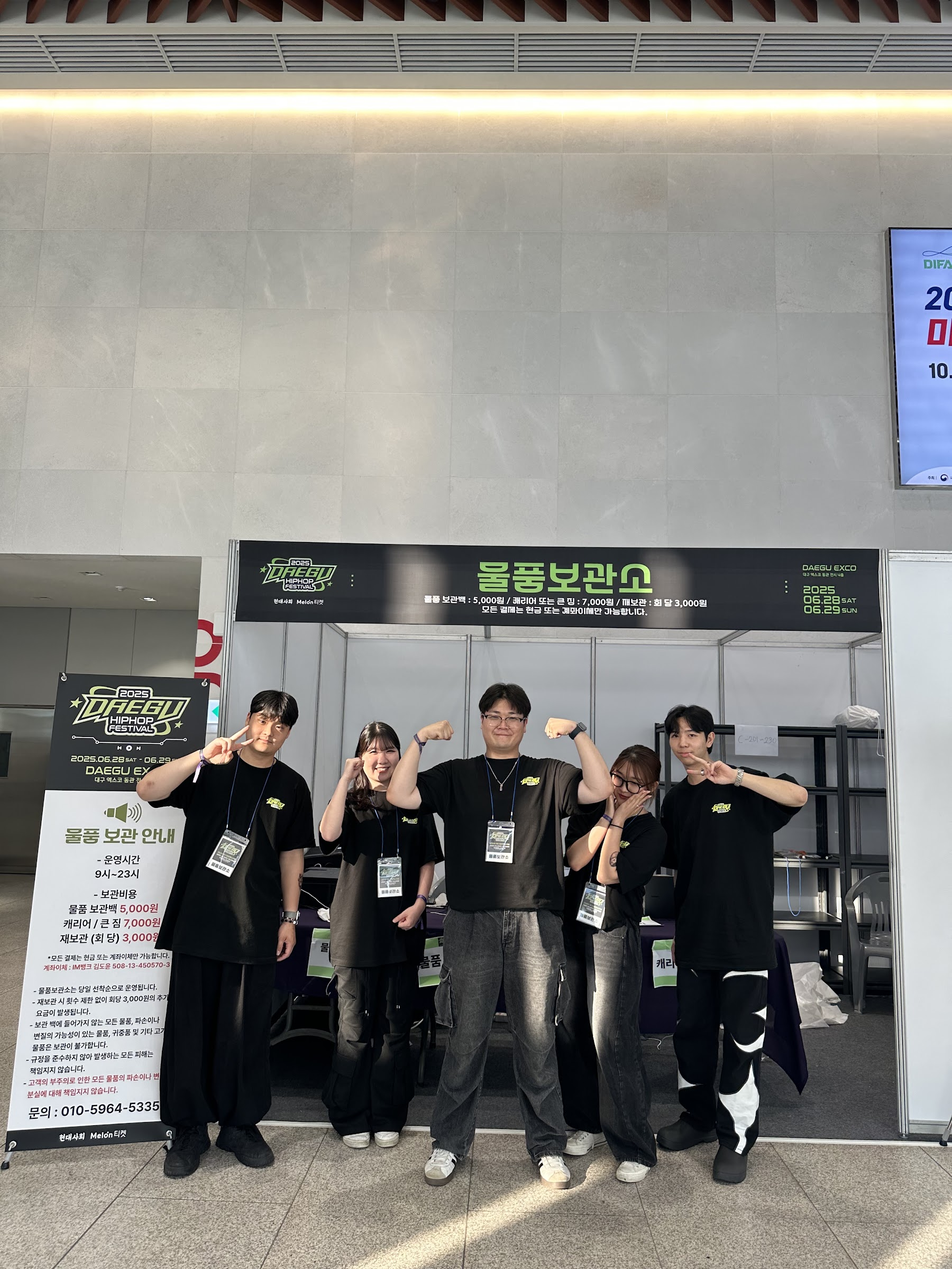
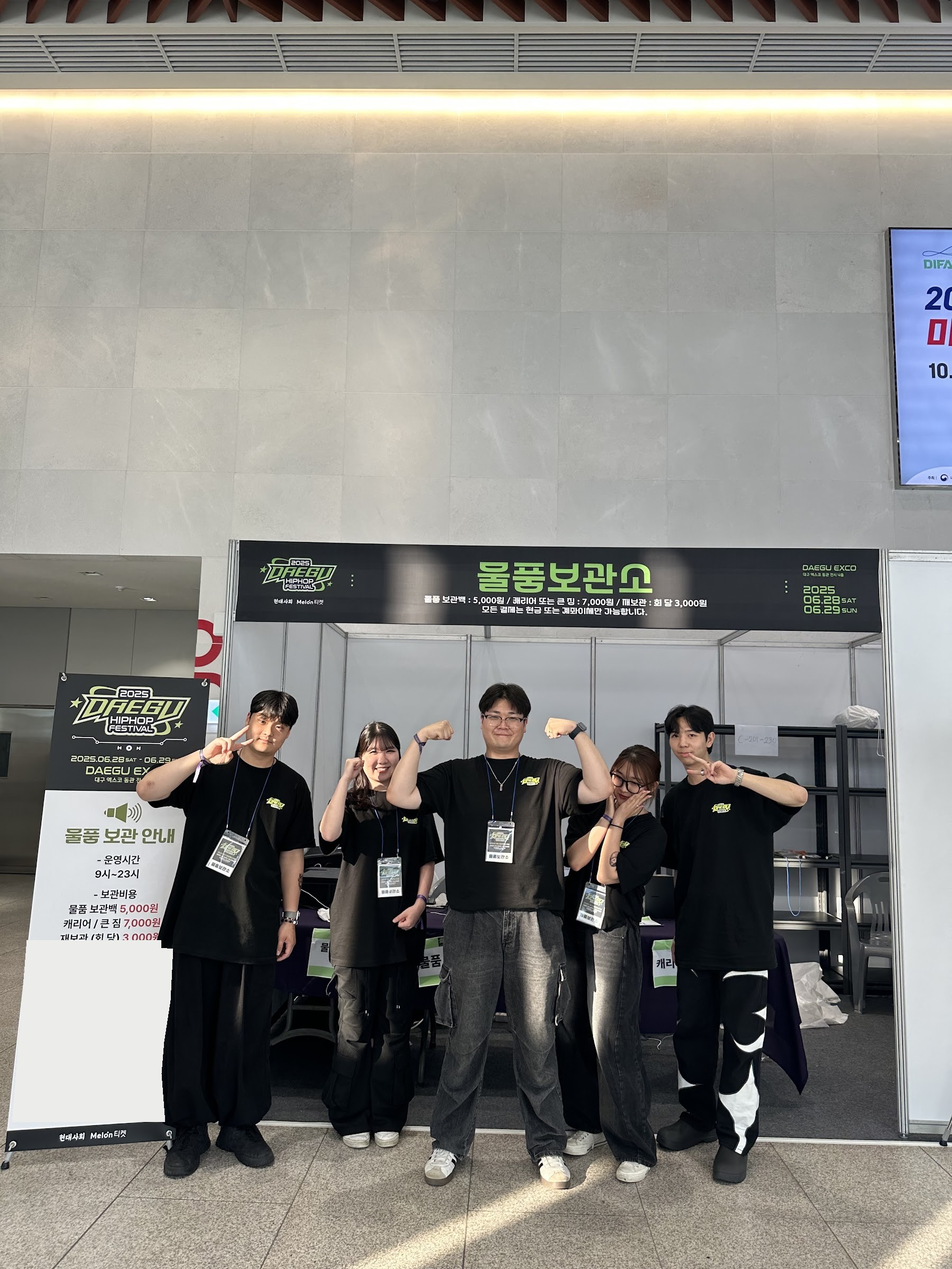
메인 사진을 활동 사진 슬라이드로 변경, 안내판 개인정보 가림
- 메인 큰 사진 자리에 활동 사진 6장이 5초마다 바뀌는 슬라이드 추가
- 점 버튼으로 사진 선택, 멈춤 버튼, 마우스를 올리면 잠시 멈춤
- 움직임 줄이기 설정을 켠 방문자에게는 자동으로 넘기지 않음
- 힙합페스티벌 사진 안내판의 개인 계좌번호와 예전 전화번호를 가림
- 봉사활동 사진 설명을 현수막 내용에 맞게 수정

Changed region(s): [[0.0311, 0.7188, 0.1867, 0.9062]]

diff --git a/index.html b/index.html
@@ -54,7 +54,19 @@
   </div>
 </div>
 
-<figure class="hero-photo"><img src="assets/photos/award.jpg" alt="2025 대구·경북 청년 어워드 단체 사진"><figcaption>2025 대구·경북 청년 어워드</figcaption></figure>
+<!-- 메인 활동 사진 슬라이드: 사진을 추가하려면 figure 를 한 줄 더 넣으면 됩니다 -->
+<div class="hero-photo" id="slides" role="group" aria-roledescription="슬라이드" aria-label="고래 활동 사진">
+  <figure class="slide on" style="--pos:82%"><img src="assets/photos/award.jpg" alt="2025 대구·경북 청년 어워드 단체 사진"><figcaption>2025 대구·경북 청년 어워드</figcaption></figure>
+  <figure class="slide" style="--pos:72%"><img data-src="assets/photos/startup.jpg" alt="청년 창업 지원 사업설명회 단체 사진"><figcaption>청년 창업 지원 사업설명회</figcaption></figure>
+  <figure class="slide" style="--pos:62%"><img data-src="assets/photos/cleanup.jpg" alt="자취골목 클린업 프로젝트 참여자들"><figcaption>자취골목 클린업 프로젝트</figcaption></figure>
+  <figure class="slide" style="--pos:58%"><img data-src="assets/photos/yoga-class.jpg" alt="신천달빛요가 참여자들"><figcaption>신천달빛요가</figcaption></figure>
+  <figure class="slide" style="--pos:73%"><img data-src="assets/photos/hiphop.jpg" alt="대구힙합페스티벌 물품보관소 운영진"><figcaption>대구힙합페스티벌 물품보관소</figcaption></figure>
+  <figure class="slide" style="--pos:74%"><img data-src="assets/photos/volunteer.jpg" alt="경북 청년 호우 피해 지역 복구 봉사활동 단체 사진"><figcaption>경북 청년 호우 피해 지역 복구 봉사활동</figcaption></figure>
+  <div class="slide-ctrl">
+    <button type="button" id="slidePause" aria-label="슬라이드 멈추기" aria-pressed="false"><span aria-hidden="true">❚❚</span></button>
+    <div class="slide-dots" id="slideDots"></div>
+  </div>
+</div>
 
 <!-- 소개 -->
 <section id="about"><div class="w">
@@ -99,7 +111,7 @@
     <button data-src="assets/photos/cleanup.jpg"><img src="assets/photos/cleanup.jpg" alt="" loading="lazy"><span>자취골목 클린업 프로젝트</span></button>
     <button data-src="assets/photos/yoga-class.jpg"><img src="assets/photos/yoga-class.jpg" alt="" loading="lazy"><span>신천달빛요가</span></button>
     <button data-src="assets/photos/hiphop.jpg"><img src="assets/photos/hiphop.jpg" alt="" loading="lazy" style="object-position:center 70%"><span>대구힙합페스티벌 물품보관소</span></button>
-    <button data-src="assets/photos/volunteer.jpg"><img src="assets/photos/volunteer.jpg" alt="" loading="lazy"><span>지역 봉사활동</span></button>
+    <button data-src="assets/photos/volunteer.jpg"><img src="assets/photos/volunteer.jpg" alt="" loading="lazy"><span>호우 피해 복구 봉사활동</span></button>
   </div>
   <div class="insta rv">
     <p>더 많은 현장 사진과 새 프로그램 소식은 <b>인스타그램 @go.rae</b>에서 가장 먼저 올라와요.</p>
@@ -373,6 +385,50 @@ track.addEventListener('click',e=>{const c=e.target.closest('.card');if(!c)retur
 const closeModal=()=>modal.classList.remove('show');
 $('#close').onclick=closeModal;
 modal.onclick=e=>{if(e.target===modal)closeModal()};
+// 메인 활동 사진 슬라이드
+(()=>{
+  const box=$('#slides'), slides=$$('#slides .slide'), dotsBox=$('#slideDots'), pauseBtn=$('#slidePause');
+  const DELAY=5000;
+  let cur=0, timer=null, paused=matchMedia('(prefers-reduced-motion: reduce)').matches, hold=false;
+  const dots=slides.map((s,i)=>{
+    const b=document.createElement('button');
+    b.type='button';
+    b.setAttribute('aria-label',`${i+1}번째 사진: ${s.querySelector('figcaption').textContent}`);
+    b.onclick=()=>{show(i);restart()};
+    dotsBox.appendChild(b);
+    return b;
+  });
+  function show(i){
+    slides[cur].classList.remove('on');
+    cur=(i+slides.length)%slides.length;
+    slides[cur].classList.add('on');
+    dots.forEach((d,n)=>{d.classList.toggle('on',n===cur);d.setAttribute('aria-current',n===cur?'true':'false')});
+  }
+  function restart(){
+    clearTimeout(timer);
+    if(!paused&&!hold&&!document.hidden) timer=setTimeout(()=>{
+      const next=slides[(cur+1)%slides.length].querySelector('img');
+      if(next.complete&&next.naturalWidth) show(cur+1); // 아직 안 받아진 사진은 건너뛰지 않고 기다림
+      restart();
+    },DELAY);
+  }
+  function drawPause(){
+    pauseBtn.firstElementChild.textContent=paused?'▶':'❚❚';
+    pauseBtn.setAttribute('aria-label',paused?'슬라이드 재생':'슬라이드 멈추기');
+    pauseBtn.setAttribute('aria-pressed',paused);
+  }
+  pauseBtn.onclick=()=>{paused=!paused;drawPause();restart()};
+  box.addEventListener('mouseenter',()=>{hold=true;restart()});
+  box.addEventListener('mouseleave',()=>{hold=false;restart()});
+  box.addEventListener('focusin',()=>{hold=true;restart()});
+  box.addEventListener('focusout',()=>{hold=false;restart()});
+  document.addEventListener('visibilitychange',restart);
+  // 첫 화면을 다 불러온 뒤 나머지 사진을 받아서 처음 로딩을 가볍게 유지
+  const loadRest=()=>$$('#slides img[data-src]').forEach(img=>{img.src=img.dataset.src;img.removeAttribute('data-src')});
+  document.readyState==='complete'?loadRest():addEventListener('load',loadRest);
+  show(0);drawPause();restart();
+})();
+
 // 사진 크게 보기
 const lb=$('#lightbox');
 $$('#gallery-grid button').forEach(b=>b.onclick=()=>{$('#lbImg').src=b.dataset.src;$('#lbCap').textContent=b.querySelector('span').textContent;lb.classList.add('show')});

diff --git a/assets/site.css b/assets/site.css
@@ -74,9 +74,19 @@ body.open .menu-btn i:nth-child(3){top:9px;transform:rotate(-45deg)}
 
 /* 사진 */
 .hero-photo{margin:0;position:relative;overflow:hidden;aspect-ratio:21/8;background:var(--soft)}
-.hero-photo img{width:100%;height:100%;object-fit:cover;object-position:center 82%}
-.hero-photo figcaption{position:absolute;left:24px;bottom:18px;color:#fff;font-size:13px;text-shadow:0 1px 6px rgba(0,0,0,.4)}
-@media(max-width:700px){.hero-photo{aspect-ratio:4/3}}
+.slide{position:absolute;inset:0;margin:0;opacity:0;visibility:hidden;transition:opacity 1s,visibility 1s}
+.slide.on{opacity:1;visibility:visible}
+.slide img{width:100%;height:100%;object-fit:cover;object-position:center var(--pos,50%)}
+.slide::after{content:"";position:absolute;inset:auto 0 0;height:96px;background:linear-gradient(transparent,rgba(0,0,0,.45));pointer-events:none}
+.slide figcaption{position:absolute;left:max(24px,calc((100vw - 1200px) / 2 + 24px));right:170px;bottom:18px;z-index:1;color:#fff;font-size:14px;font-weight:500}
+.slide-ctrl{position:absolute;right:max(24px,calc((100vw - 1200px) / 2 + 24px));bottom:12px;z-index:2;display:flex;align-items:center;gap:6px}
+.slide-ctrl button{color:#fff;width:24px;height:24px;display:grid;place-items:center;padding:0}
+#slidePause{font-size:10px;letter-spacing:-1px}
+.slide-dots{display:flex}
+.slide-dots button::before{content:"";width:8px;height:8px;border-radius:50%;border:1.5px solid #fff;transition:background .2s}
+.slide-dots button.on::before{background:#fff}
+.slide-ctrl button:focus-visible{outline:2px solid #fff;outline-offset:1px}
+@media(max-width:700px){.hero-photo{aspect-ratio:4/3}.slide figcaption{right:24px;bottom:42px}}
 .gallery{display:grid;grid-template-columns:repeat(4,1fr);grid-auto-rows:220px;gap:12px}
 .gallery button{position:relative;overflow:hidden;background:var(--soft);padding:0;text-align:left}
 .gallery button:first-child{grid-column:span 2;grid-row:span 2}
